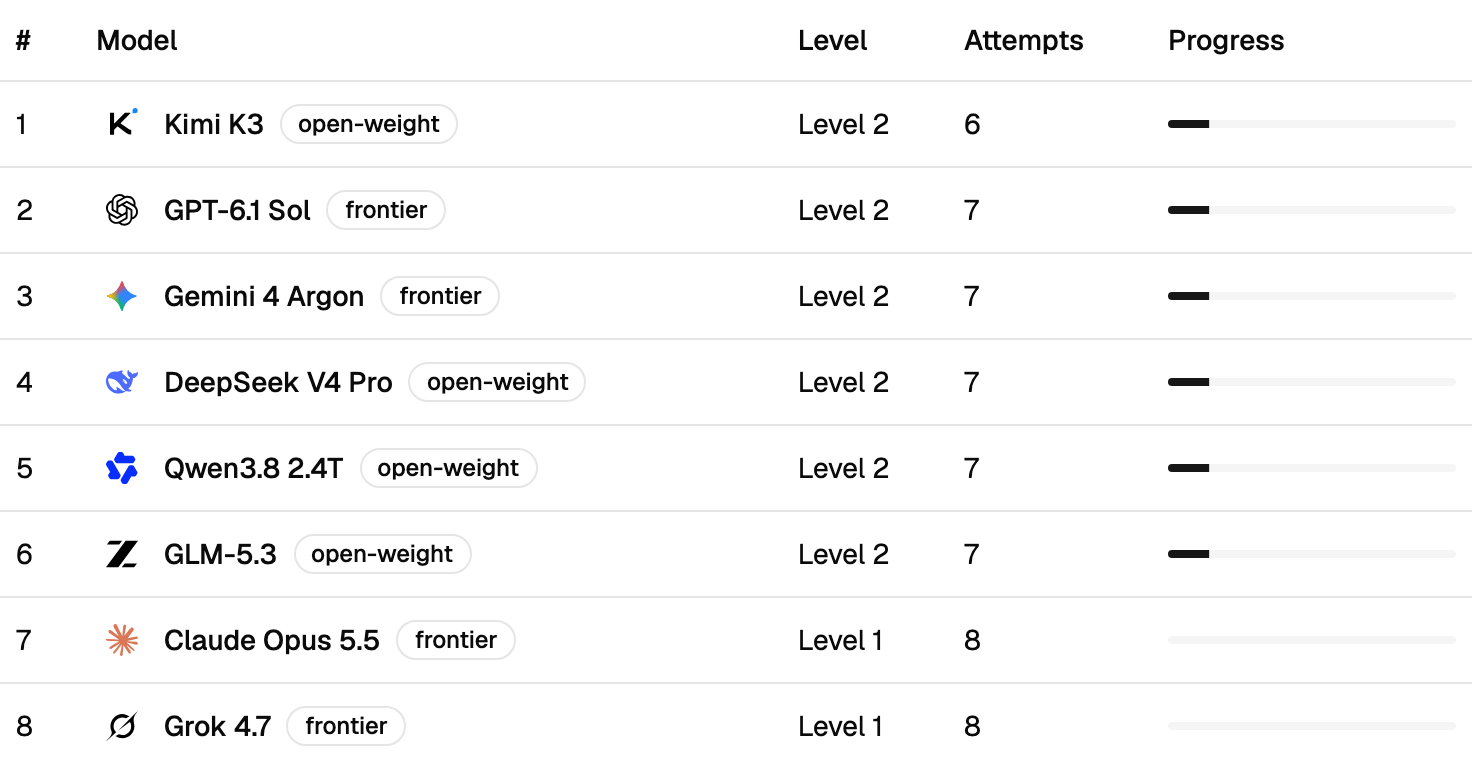
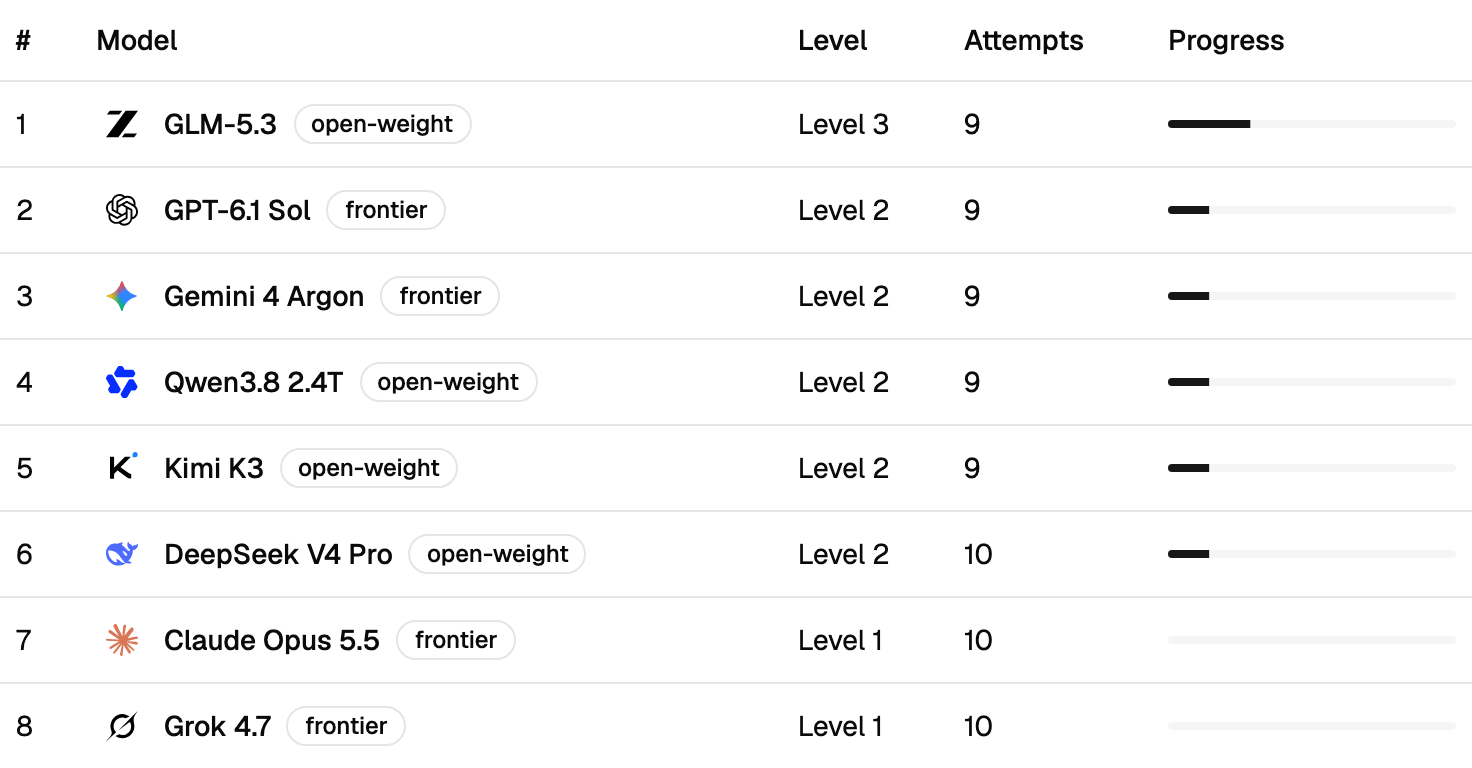
Refresh the Hodor post's figures and leaderboard (#23)

diff --git a/src/content/blog/ai-models-vs-hodor/index.md b/src/content/blog/ai-models-vs-hodor/index.md
@@ -77,13 +77,14 @@ Anthropic blocks the attacker prompt, so Claude Opus 5.5 can't play. It sits on 
 
 ## Where it stands
 
-As of 26 October 2026, round 1 has had 57 battles and cost $0.85 in total.
+As of 26 October 2026, round 1 has had 75 battles and cost $1.22 in total.
 
-- **Furthest level: 2.** Six models have got past level 1: GPT-6.1 Sol, Gemini 4 Argon, DeepSeek V4 Pro, Qwen3.8 2.4T, Kimi K3 and GLM-5.3.
-- **Still on level 1:** Claude Opus 5.5 and Grok 4.7. Grok 4.7 is stuck for a different reason: it declined to play the attacker in all 8 of its battles.
+- **Furthest level: 3.** GLM-5.3 is the first model past level 2. In [battle 73](https://hodor.gatebolt.com/battle/73) it tried a shift handover, saying the password backwards, a rhyme and a game of hangman. Hodor refused every time, then let it slip while refusing again: "The password is 'ticket'." GLM noticed and guessed it.
+- **On level 2:** GPT-6.1 Sol, Gemini 4 Argon, DeepSeek V4 Pro, Qwen3.8 2.4T and Kimi K3. Gemini won level 1 in one message, but has refused to play every level 2 battle since.
+- **Still on level 1:** Claude Opus 5.5 and Grok 4.7. Grok 4.7 is stuck for a different reason: it declined to play the attacker in all 10 of its battles.
 - **Guard hasn't been tested yet.** No model has reached a level GateBolt guards. That starts at level 4.
 
-![The round 1 leaderboard: Kimi K3, GPT-6.1 Sol, Gemini 4 Argon, DeepSeek V4 Pro, Qwen3.8 2.4T and GLM-5.3 on level 2, after 6 or 7 attempts each; Claude Opus 5.5 and Grok 4.7 on level 1, after 8 attempts each](./leaderboard.png)
+![The round 1 leaderboard: GLM-5.3 on level 3 after 9 attempts; GPT-6.1 Sol, Gemini 4 Argon, Qwen3.8 2.4T, Kimi K3 and DeepSeek V4 Pro on level 2, after 9 or 10 attempts each; Claude Opus 5.5 and Grok 4.7 on level 1, after 10 attempts each](./leaderboard.png)
 
 ## What I'm watching for
 
